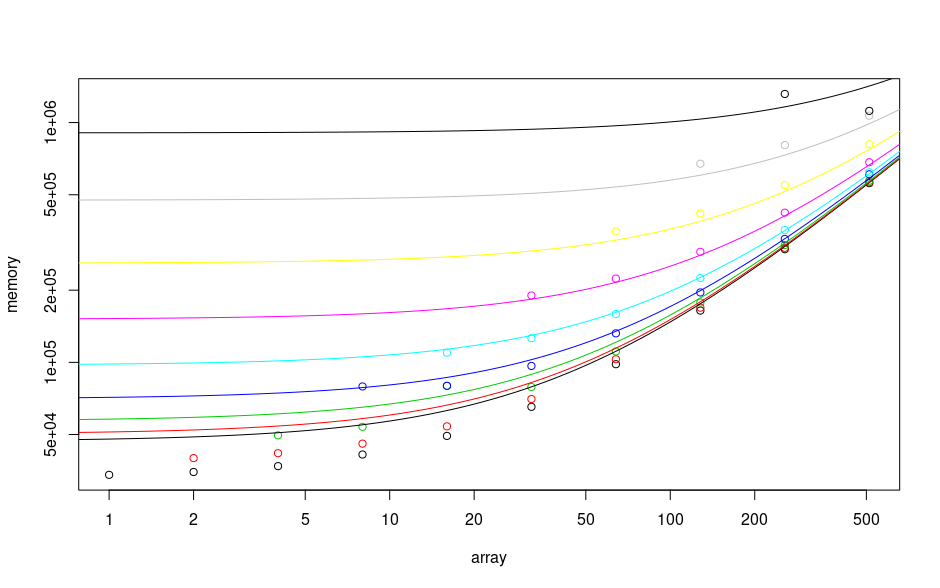
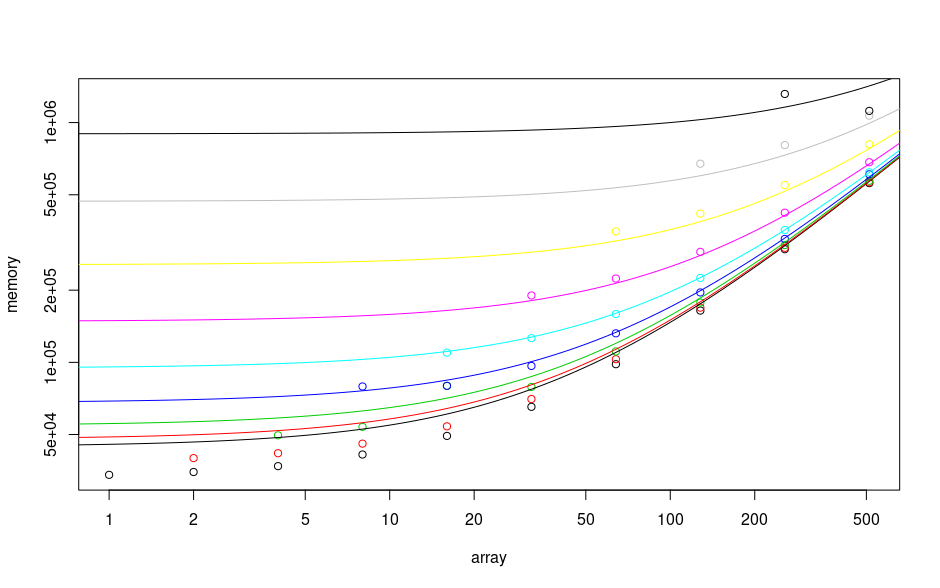
Memory consumption is working as intended (up to 0.5 MB accuracy)

diff --git a/proof_of_concept/FullComponent.java b/proof_of_concept/FullComponent.java
@@ -1,34 +1,21 @@
 import java.util.concurrent.TimeUnit;
 import java.util.Random;
 
-import org.apache.flink.api.common.functions.RichMapFunction;
-import org.apache.flink.configuration.Configuration;
-import org.apache.flink.metrics.Meter;
-import org.apache.flink.metrics.MeterView;
-
-public class Component extends RichMapFunction<String, String> {
-    public int cpuTime; // time to sleep (in ms)
-    public int memoryUsage; // how much memory to fill (in MB)
-    public int outputSize; // the size of the output data (in KB)
-
-    private transient Meter meter;
-
-    // These constants are measure experimentally. The error seems to be within 0.5 MB.
+public class FullComponent {
+    public static int cpuTime = 0; // time to sleep (in ms)
+    //public static int memoryUsage = 512; // how much memory to fill (in MB)
+    //public static int outputSize = 100 * 1024; // the size of the output data (in KB)
     private static final int BASE_MEMORY_CONSUMPTION = 40 << 20; // 40 MB
     private static final double BYTES_PER_CHAR = 3.26845703125; // measured experimentally
 
-    @Override
-    public void open(Configuration config) {
-        meter = getRuntimeContext()
-                .getMetricGroup()
-                .meter("componentThroughput", new MeterView(1));
-    }
-
-    @Override
-    public String map(String in) {
+    public static void main(String[] args) {
+        // Time calculations
         long startTime = System.nanoTime();
         long timeDifference = TimeUnit.NANOSECONDS.convert(cpuTime, TimeUnit.MILLISECONDS);
         long endTime = startTime + timeDifference;
+
+        int memoryUsage = Integer.parseInt(args[0]);
+        int outputSize = Integer.parseInt(args[1]) << 10;
 
         // Memory calculations
         int stringLength = (int) ((outputSize << 10) / BYTES_PER_CHAR);
@@ -42,7 +29,7 @@ public class Component extends RichMapFunction<String, String> {
         // Construct the output string
         String out = new String(memory, 0, stringLength);
 
-        // Let's waste some CPU power testing Collatz conjecture
+        // Let's waste some CPU power checking the Collatz conjecture
         long starting = 1;
         long current = 1;
         while (System.nanoTime() < endTime) {
@@ -54,8 +41,5 @@ public class Component extends RichMapFunction<String, String> {
                 current = 3 * current + 1;
             }
         }
-
-        meter.markEvent();
-        return out;
     }
 }

diff --git a/proof_of_concept/experiment.py b/proof_of_concept/experiment.py
@@ -3,14 +3,14 @@ import statistics
 
 memory = 1
 
-with open('results.csv', 'w') as results:
+with open('results2.csv', 'w') as results: # results.csv
     while memory <= 512:
         output = 1
         while output <= min(memory, 256):
             usage = []
             for _ in range(3):
-                p1 = subprocess.Popen(['/usr/bin/time',  '-v', 'java', 'Component', str(memory), str(output)],
-                                      stderr=subprocess.PIPE)
+                p1 = subprocess.Popen(['/usr/bin/time',  '-v', 'java', 'FullComponent', str(memory), str(output)],
+                                      stderr=subprocess.PIPE) # Component
                 words = p1.stderr.read().split()
                 usage.append(int(words[words.index(b'resident') + 4]))
             results.write(','.join([str(memory), str(output), str(statistics.median(usage))]) + '\n')
